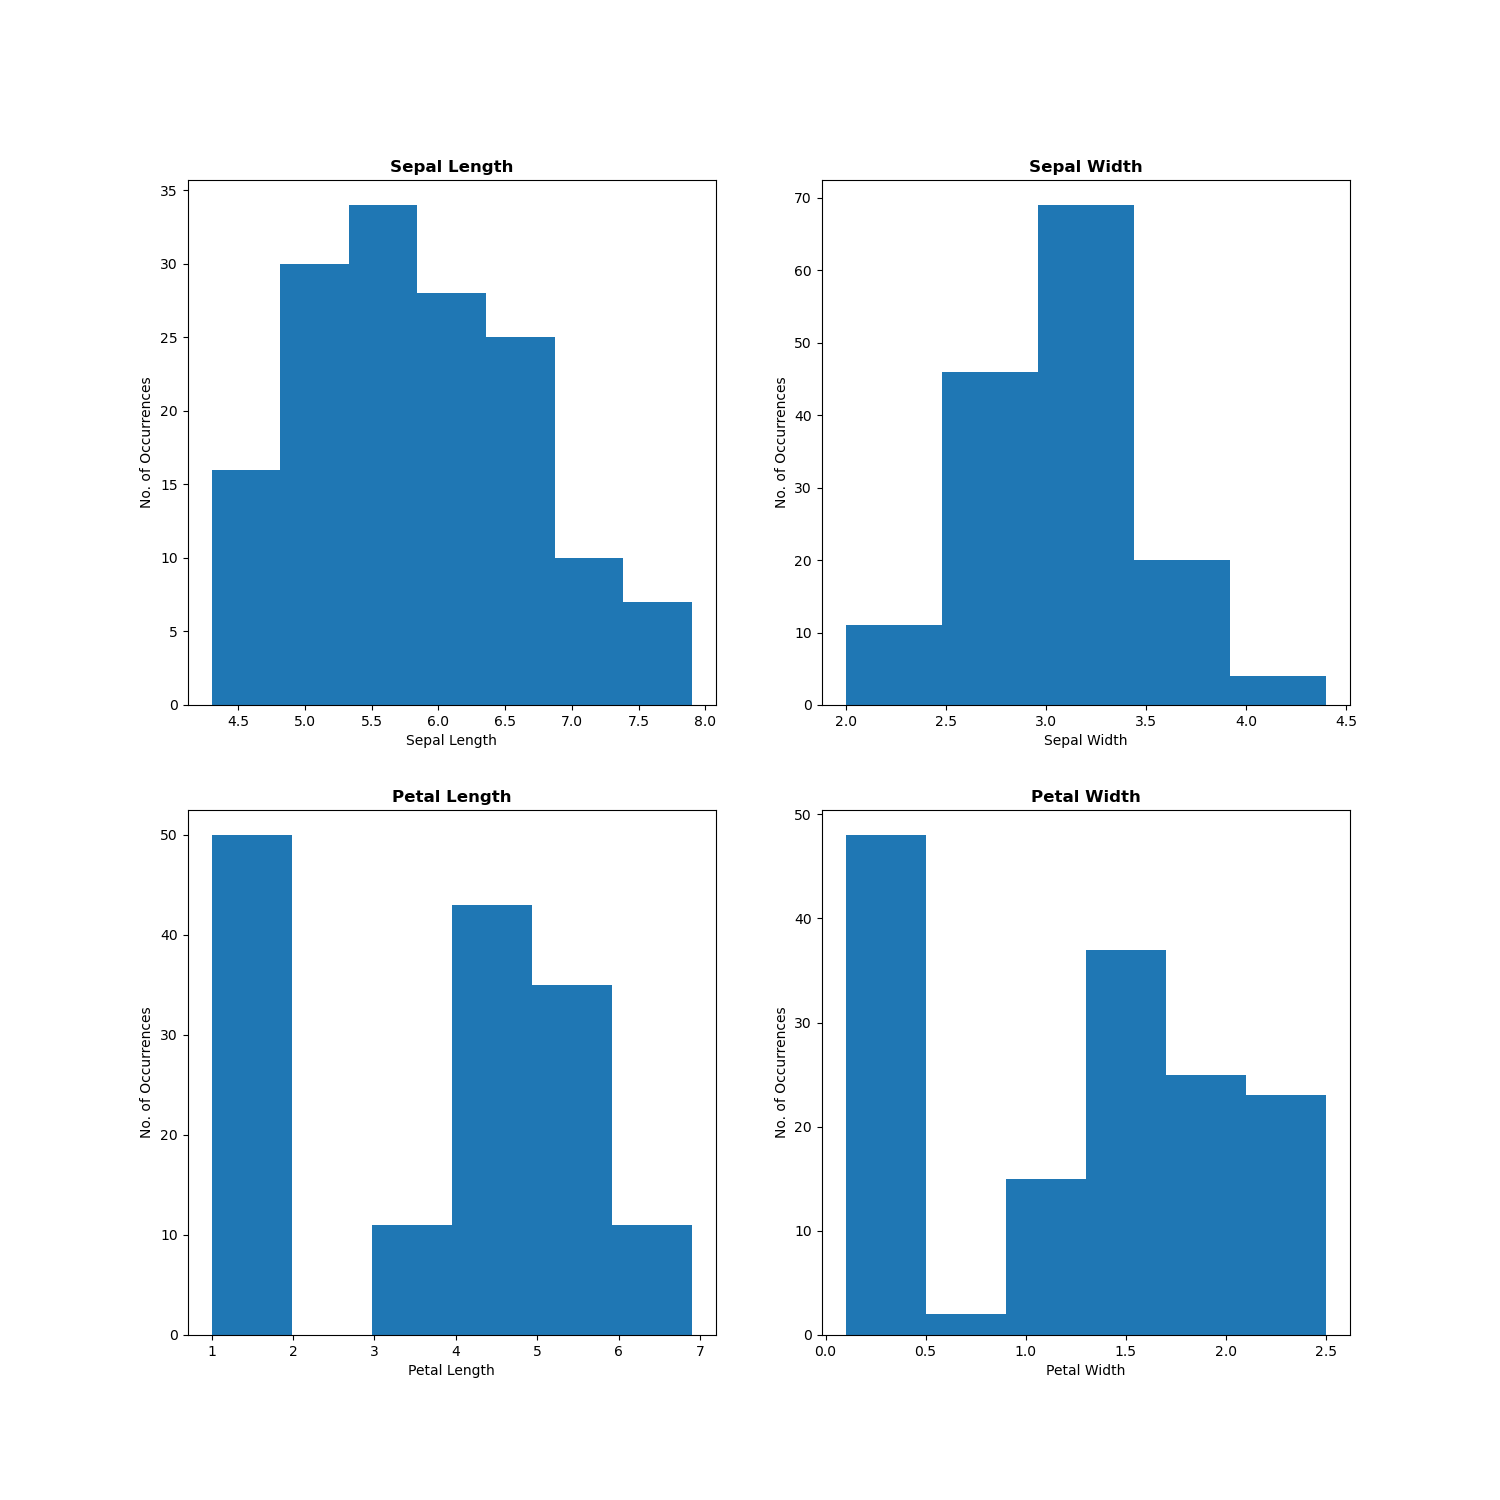
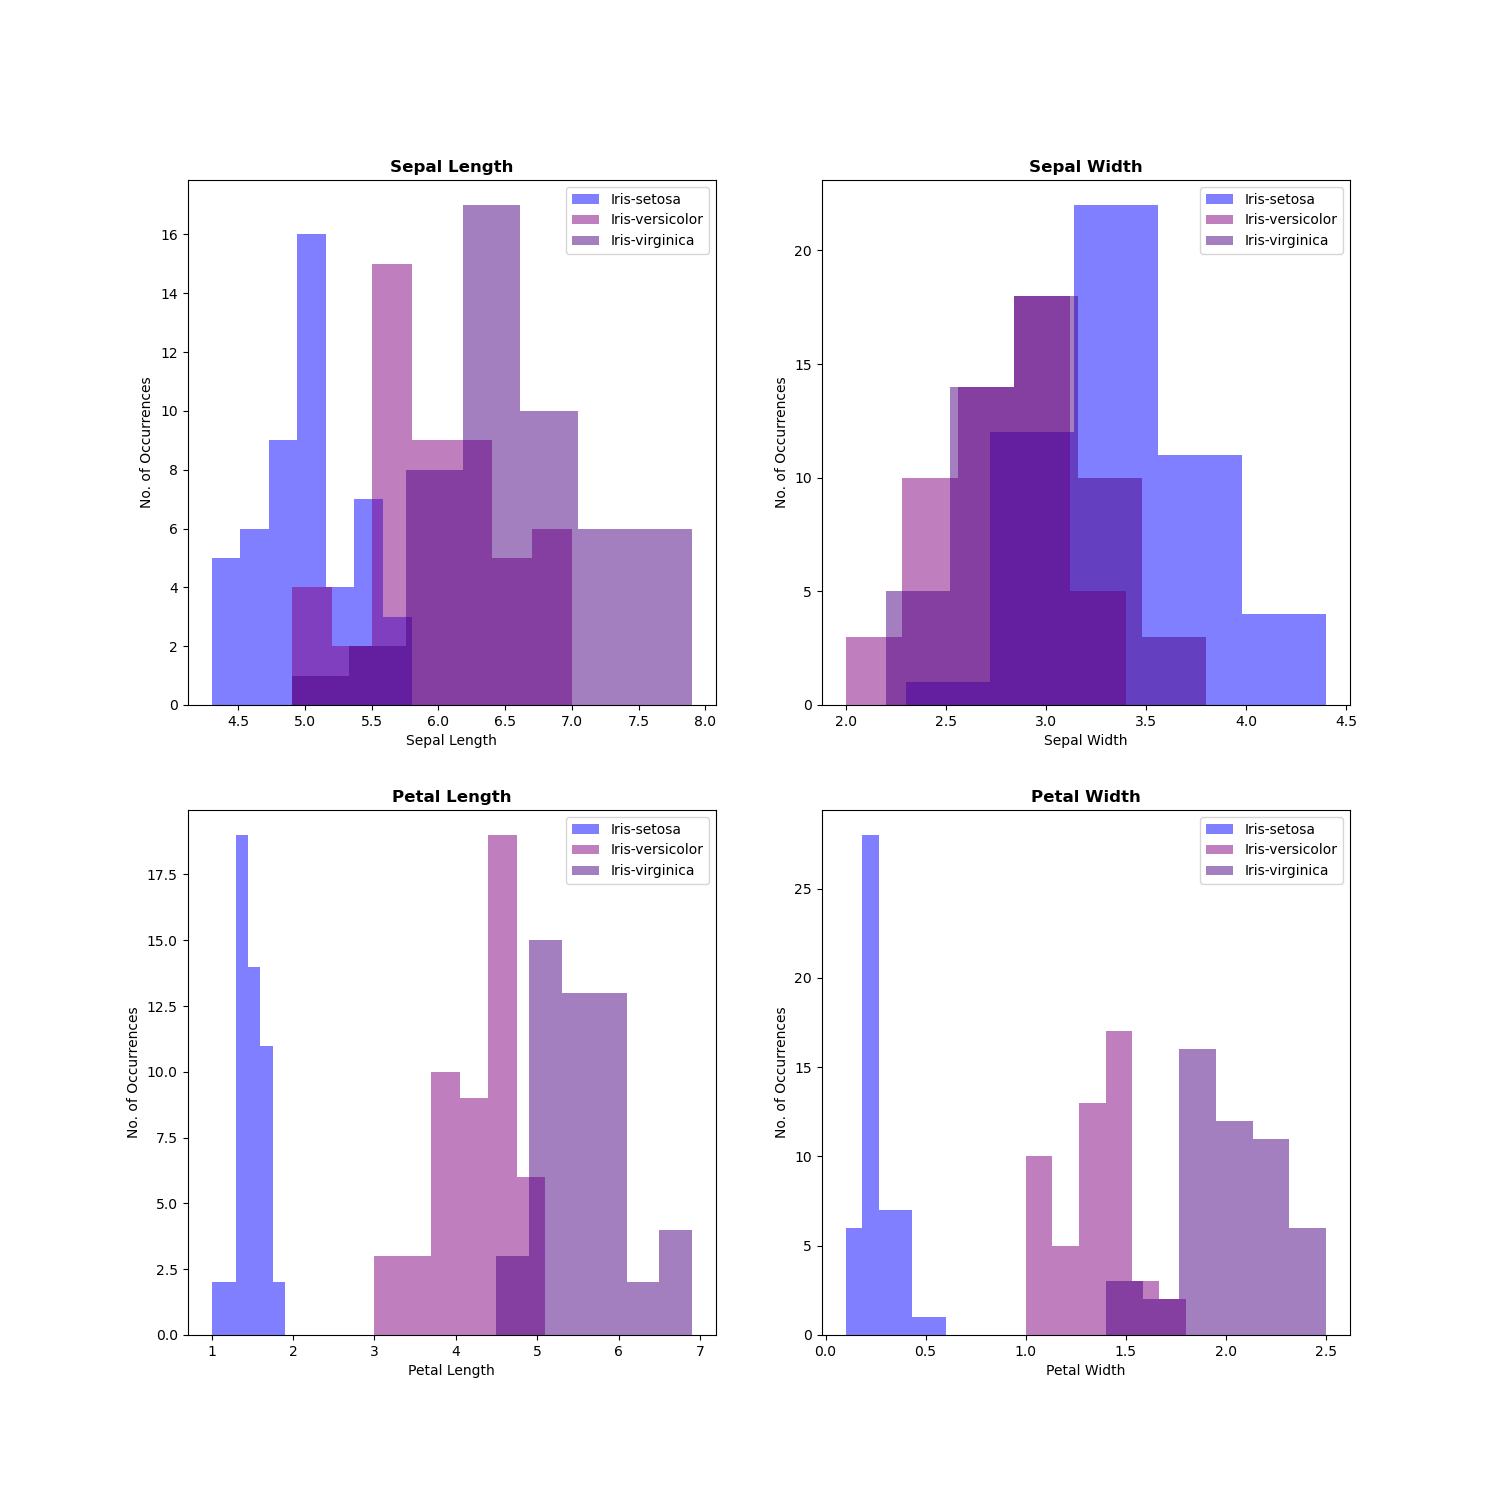
updated histograms and readme

diff --git a/analysis.py b/analysis.py
@@ -138,26 +138,41 @@ plt.savefig('Petal Width Statistics.png')
 # histograms for each variable
 
 fig, axes = plt.subplots(2,2, figsize = (15,15))
+setosa = iris[iris.Class == "Iris-setosa"]
+versicolor = iris[iris.Class == "Iris-versicolor"]
+virginica = iris[iris.Class == "Iris-virginica"]
 
 # sepal length histogram 
 axes[0,0].set_title("Sepal Length", fontweight='bold')
 axes[0,0].set(xlabel='Sepal Length')
-axes[0,0].hist(iris['Sepal_Length'], bins=7)
+axes[0,0].hist(setosa['Sepal_Length'], bins=7, alpha=0.5, label="Iris-setosa", color='blue')
+axes[0,0].hist(versicolor['Sepal_Length'], bins=7, alpha=0.5, label="Iris-versicolor", color='purple')
+axes[0,0].hist(virginica['Sepal_Length'], bins=7, alpha=0.5, label="Iris-virginica", color='indigo')
+axes[0,0].legend(loc='upper right')
  
 # sepal width histogram 
 axes[0,1].set_title("Sepal Width", fontweight='bold')
 axes[0,1].set(xlabel='Sepal Width')
-axes[0,1].hist(iris['Sepal_Width'], bins=5);
+axes[0,1].hist(setosa['Sepal_Width'], bins=5, alpha=0.5, label="Iris-setosa", color='blue')
+axes[0,1].hist(versicolor['Sepal_Width'], bins=5, alpha=0.5, label="Iris-versicolor", color='purple')
+axes[0,1].hist(virginica['Sepal_Width'], bins=5, alpha=0.5, label="Iris-virginica", color='indigo')
+axes[0,1].legend(loc='upper right');
 
 # petal length histogram 
 axes[1,0].set_title("Petal Length", fontweight='bold')
 axes[1,0].set(xlabel='Petal Length')
-axes[1,0].hist(iris['Petal_Length'], bins=6);
+axes[1,0].hist(setosa['Petal_Length'], bins=6, alpha=0.5, label="Iris-setosa", color='blue')
+axes[1,0].hist(versicolor['Petal_Length'], bins=6, alpha=0.5, label="Iris-versicolor", color='purple')
+axes[1,0].hist(virginica['Petal_Length'], bins=6, alpha=0.5, label="Iris-virginica", color='indigo')
+axes[1,0].legend(loc='upper right');
 
 # petal width histogram 
 axes[1,1].set_title("Petal Width", fontweight='bold')
 axes[1,1].set(xlabel='Petal Width')
-axes[1,1].hist(iris['Petal_Width'], bins=6);
+axes[1,1].hist(setosa['Petal_Width'], bins=6, alpha=0.5, label="Iris-setosa", color='blue')
+axes[1,1].hist(versicolor['Petal_Width'], bins=6, alpha=0.5, label="Iris-versicolor", color='purple')
+axes[1,1].hist(virginica['Petal_Width'], bins=6, alpha=0.5, label="Iris-virginica", color='indigo')
+axes[1,1].legend(loc='upper right');
 
 for ax in axes.flat:
     ax.set(ylabel='No. of Occurrences')   # as y label is the same for all histograms
@@ -174,7 +189,7 @@ grouped = iris.groupby('Class')
 for key, group in grouped:
     group.plot(ax=ax, kind='scatter', x='Sepal_Length', y='Sepal_Width', label=key, color=colors[key])
 
-plt.legend(bbox_to_anchor=(1, 1), loc=2)   # places legend outside the plot
+plt.legend()
 plt.xlabel("Sepal Length (cm)")
 plt.ylabel("Sepal Width (cm)")
 plt.savefig('Sepal Length vs Sepal Width.png')
@@ -189,7 +204,7 @@ grouped = iris.groupby('Class')
 for key, group in grouped:
     group.plot(ax=ax, kind='scatter', x='Petal_Length', y='Petal_Width', label=key, color=colors[key])
 
-plt.legend(bbox_to_anchor=(1, 1), loc=2)   # places legend outside the plot
+plt.legend()
 plt.xlabel("Petal Length (cm)")
 plt.ylabel("Petal Width (cm)")
 plt.savefig('Petal Length vs Petal Width.png')

diff --git a/README.md b/README.md
@@ -13,28 +13,39 @@ The Iris dataset is one of the most well-known data sets in relation to pattern 
 
 It contains 3 classes, with each class referencing a type of iris plant. There are 50 instances of each class, with 150 instances in total.
 
-Each class has 4 attributes, which are:
+Each class has 4 attributes, or variables, which are:
 
 - Sepal length in centimetres
 - Sepal width in centimetres
 - Petal length in centimetres
 - Petal width in centimetres
 
-One class is linearly separable from the other two, while the latter are not linearly separable from each other.
+One class (Iris-setosa) is linearly separable from the other two, while the latter (Iris-versicolor and Iris-virginica) are not linearly separable from each other.
 
-
+ 
 
 ## **Discussion of Previous Analyses** ##
 
+Lots of analyses done on this data set.
+Uses box plots, violin plots etc to show distribution and outliers. 
+Correlation plots which show which variables display good correlation and which have no correlation
+Petal length and width have the highest correlation - setosa has low petal length and width, versiscolor has medium and virginica has the largest
+Sepal length and width - setosa has small length and large width. Versicolor is in the middle for both. Virginica has large length but medium widths.
+
+Predictive analysis which can give predictions on the species for a given value for each variable is chosen. 
+i.e if petal length is < 2.1, the species is highly likely to be Iris-setosa, if > 4.8 it's highly likely to be Iris-virginica
 
 
 
 
 
-## **My Analysis - what it entails, how Python is used to do it, how to run the Python code** ##
+## **My Analysis - what it entails, how Python is used to do it, how to run the Python code, what the code does** ##
 
 Performing exploratory data analysis means to analyse data using visual techniques. Python can be used to do this. It enables trends/patterns to be identified.
 
+My analysis shows basic statistics in relation to mean, median, min and max.
+Histogram shows the distribution as well as the line plot with shading which shows a good visual on the distribution of data for each species for each of the 4 variables.
+Scatter plots show the relationship between sepal length & width and petal length & width
 
 
 
@@ -45,4 +56,7 @@ https://www.angela1c.com/projects/iris_project/downloading-iris/  - reference fo
 
 https://www.geeksforgeeks.org/exploratory-data-analysis-on-iris-dataset/ - reference for some of the data plots by Class
 
+https://stackoverflow.com/questions/74171240/python-linear-chart-with-min-max-and-avg - graph the mean with min and max shaded
+
+https://jamesrledoux.com/code/group-by-aggregate-pandas - table of mean, min and max data
 
